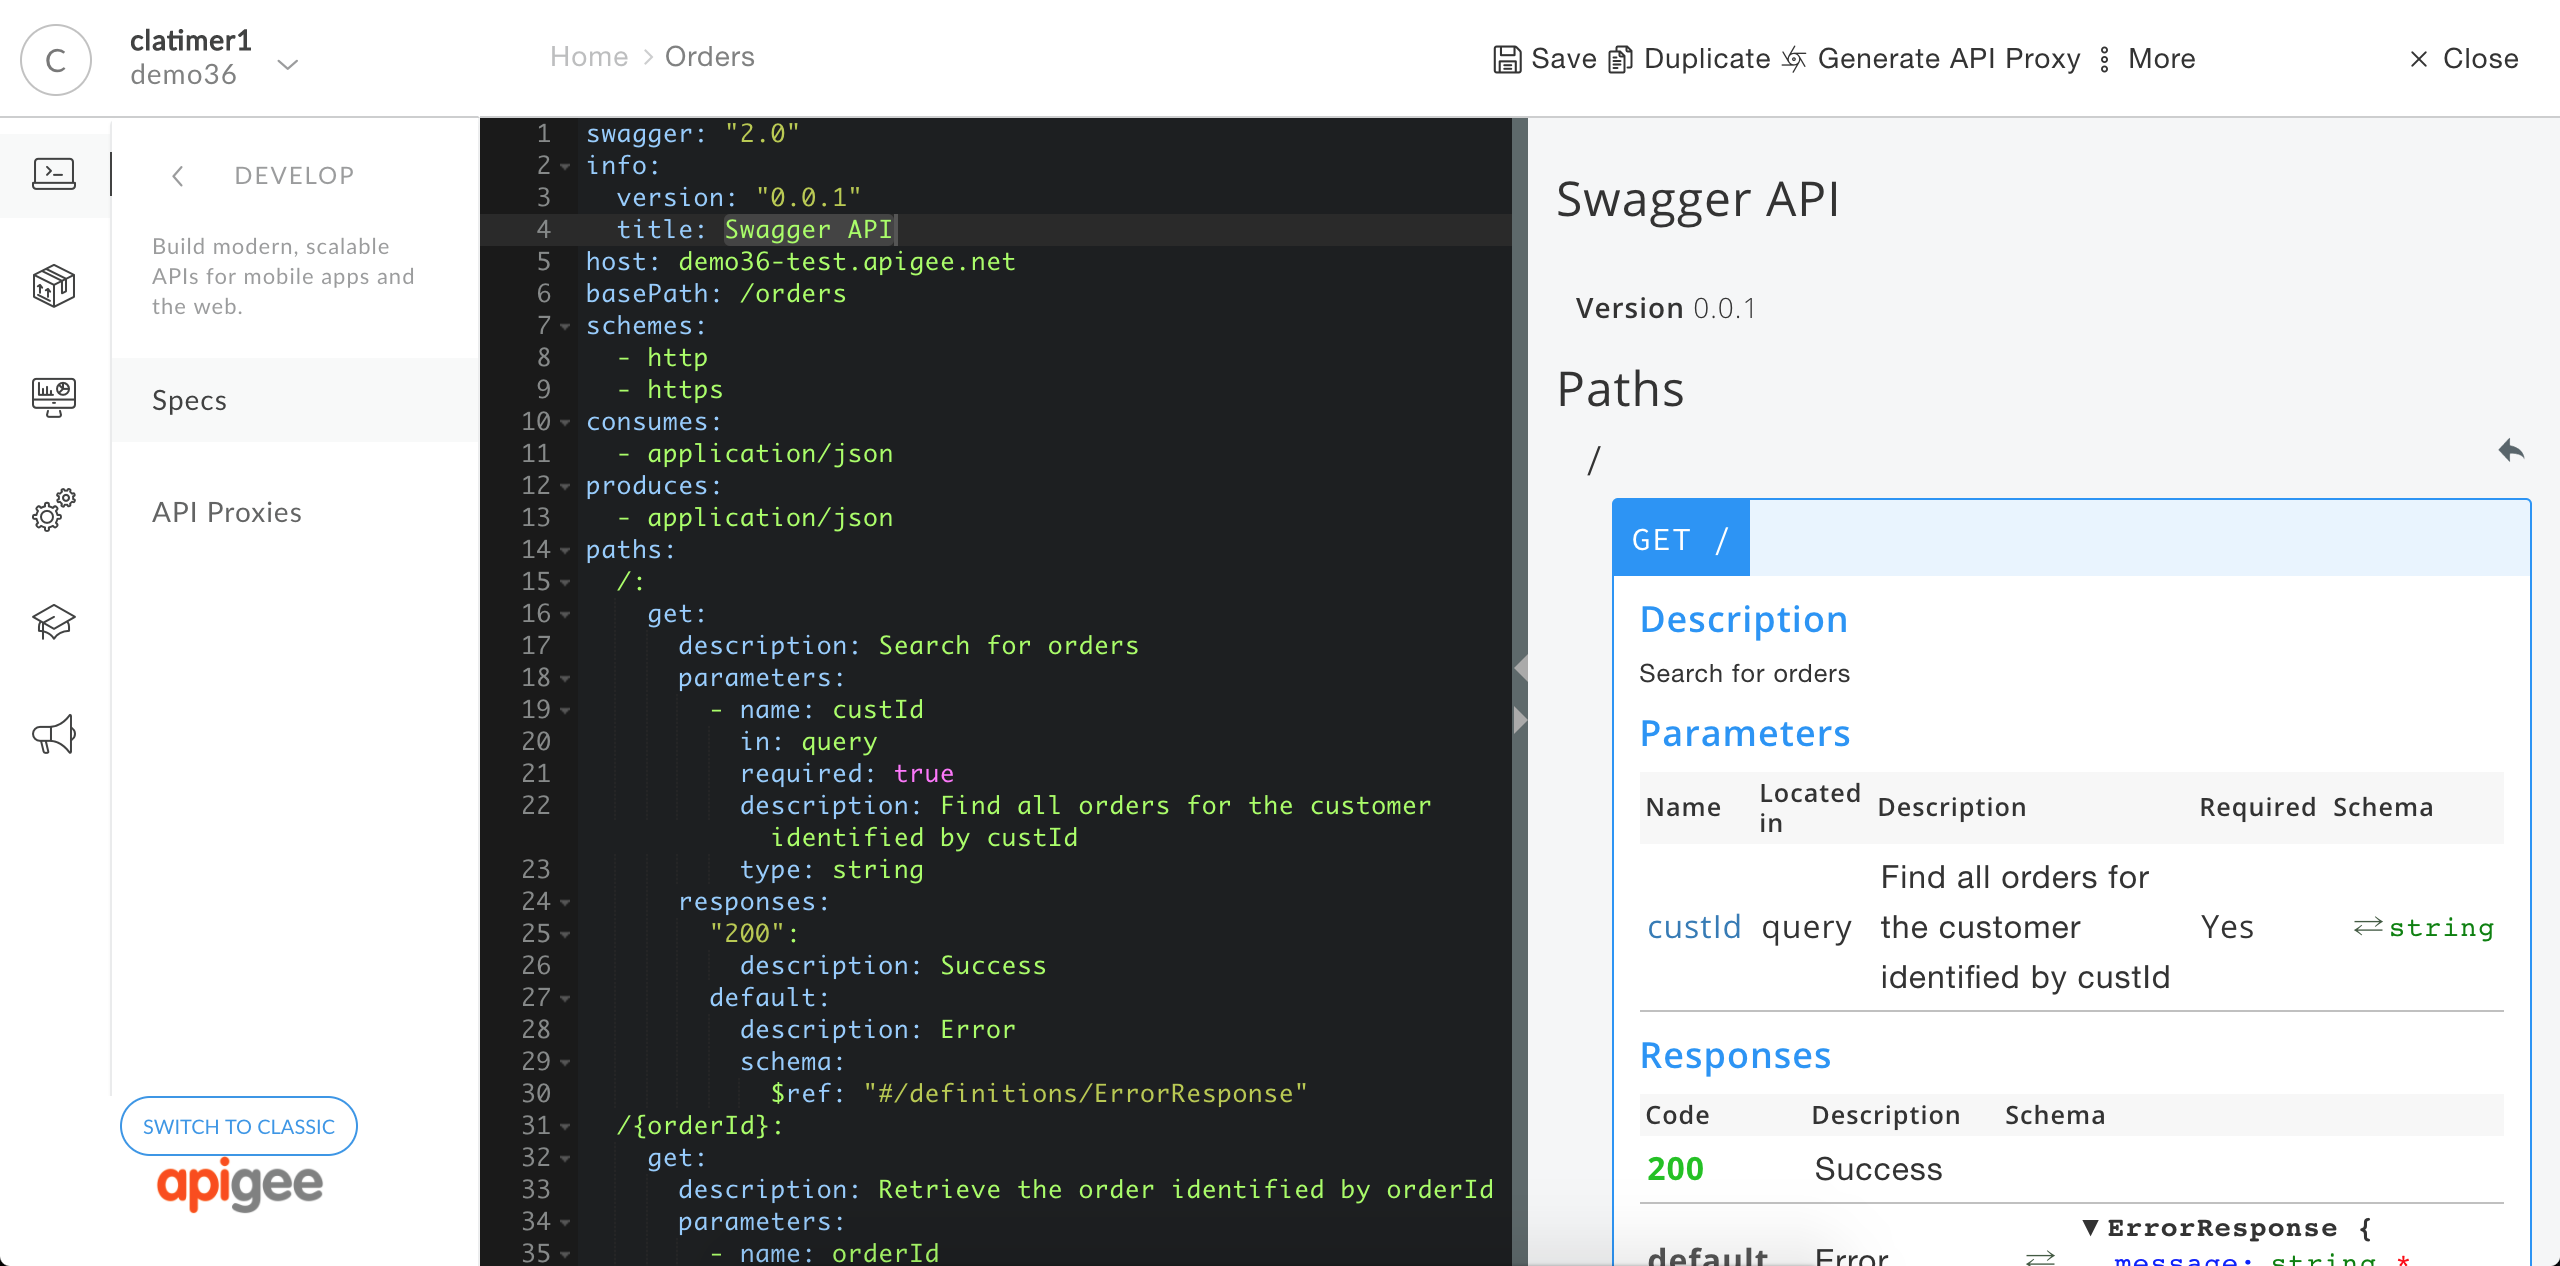
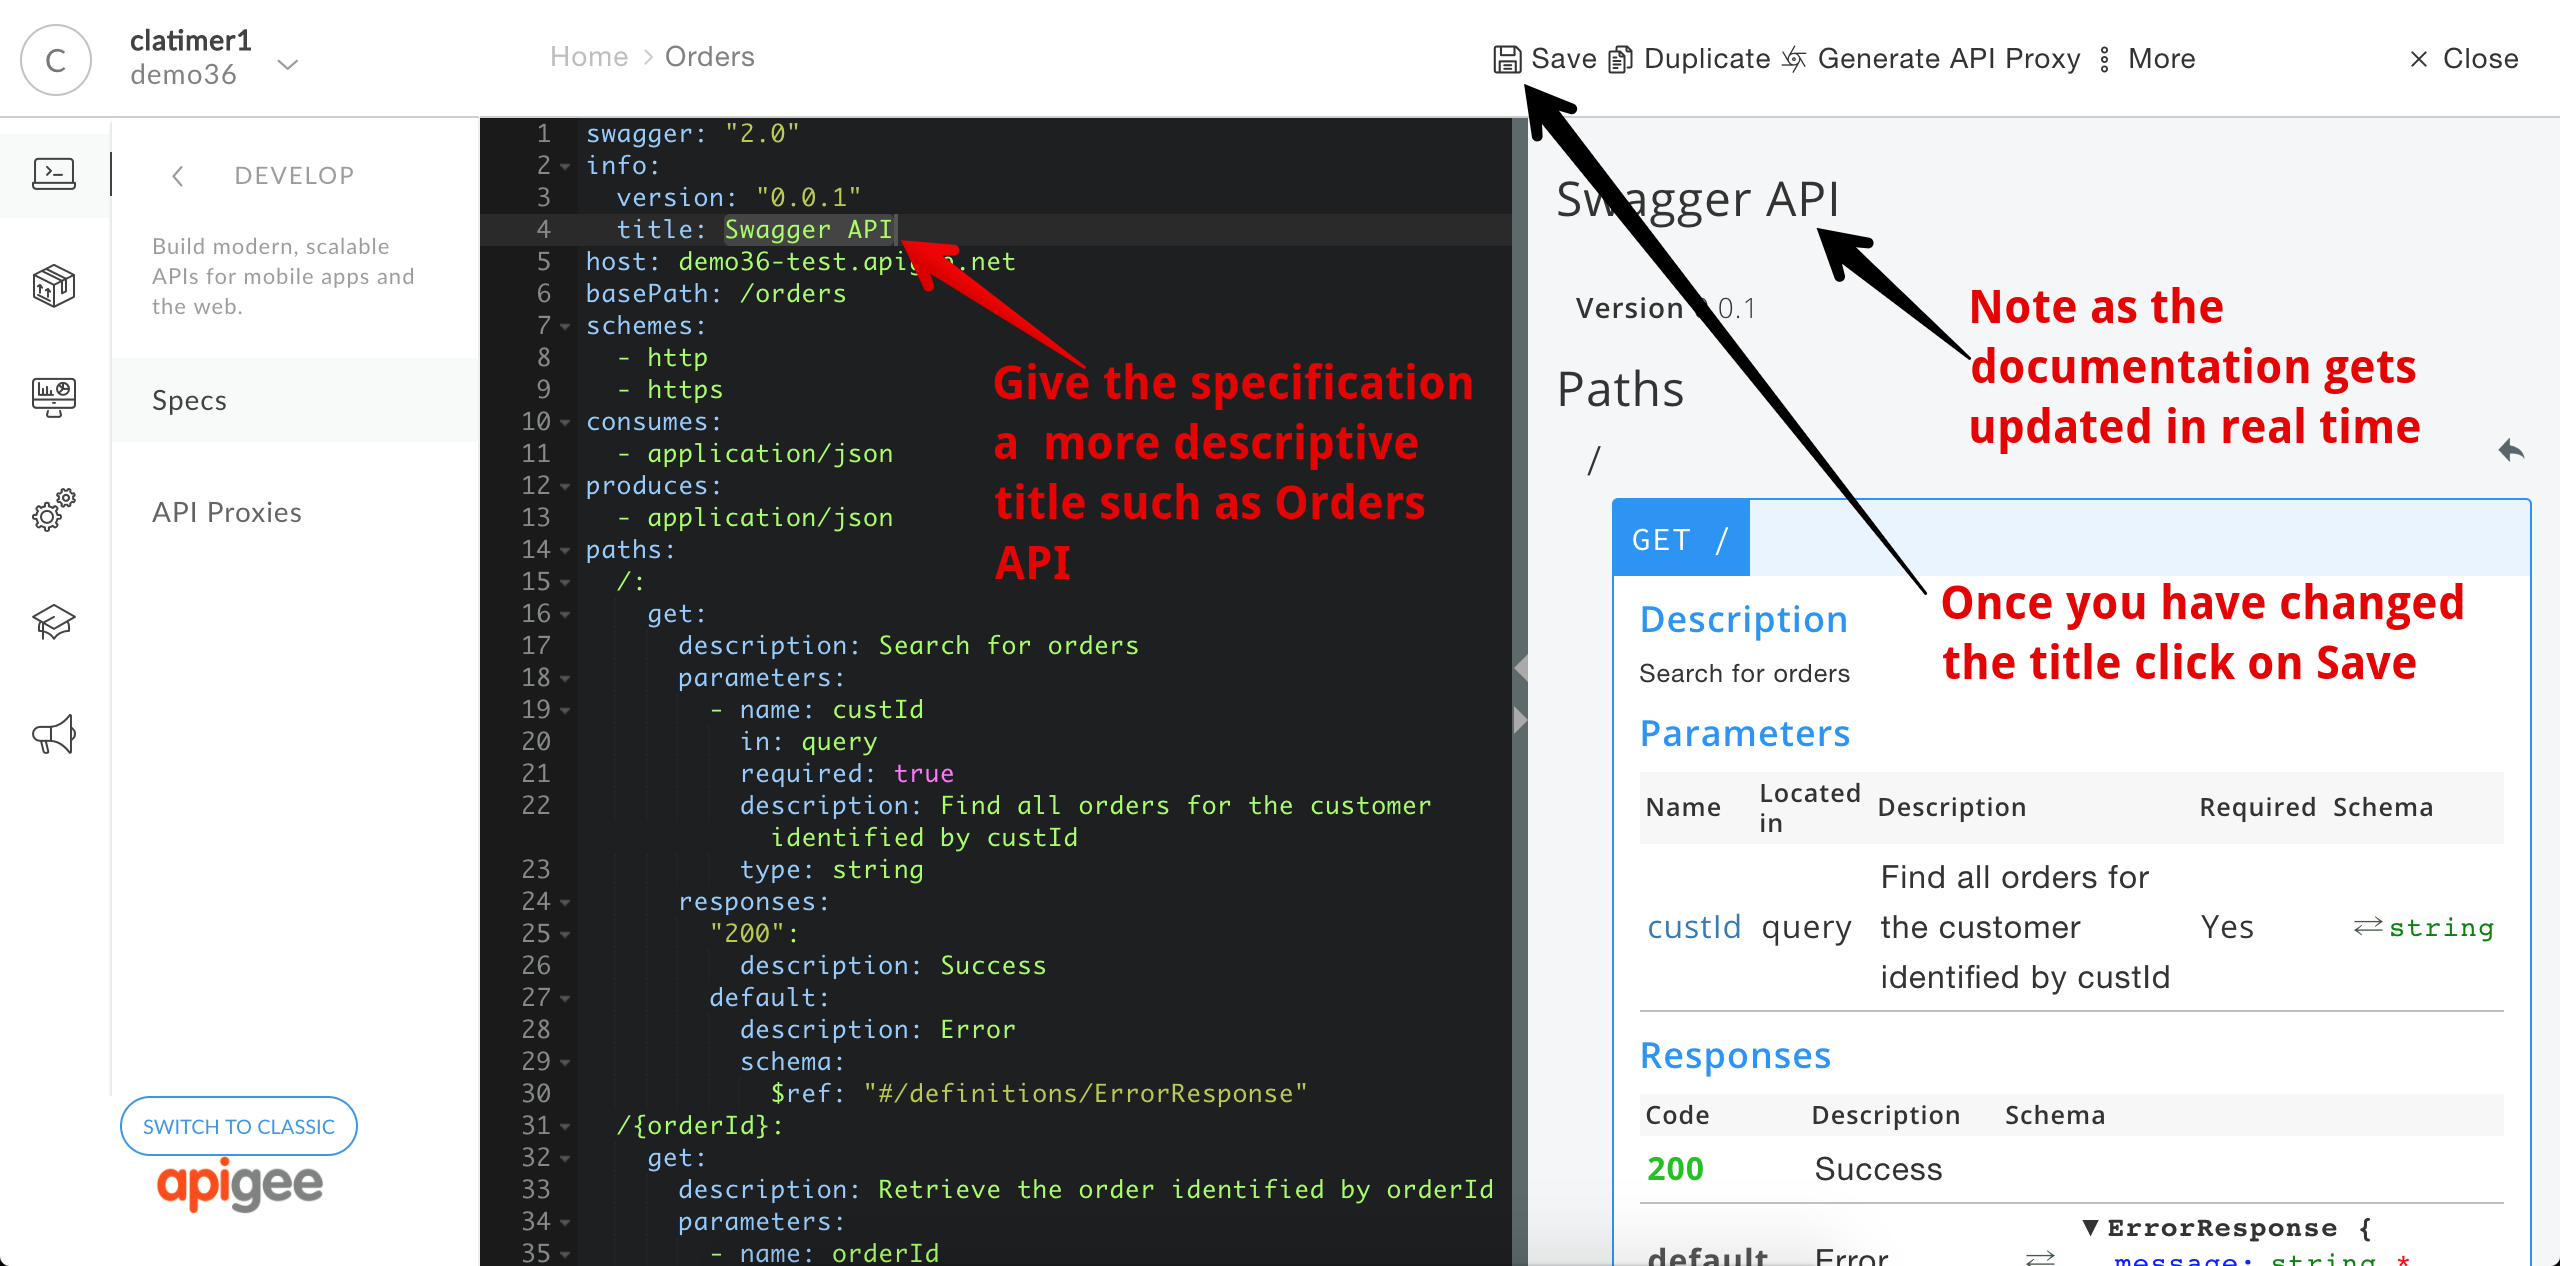
Lab 1 draft

diff --git a/lab1.md b/lab1.md
@@ -11,3 +11,51 @@ Expand the *+Spec* button and select the option *Import URL...*
 This will reveal a dialog to import a new spec from a URL. In this dialog, copy and paste this URL into the URL field:  <a href="http://playground.apistudio.io/7c8a02f4-6ed8-44a0-8c46-80e00cdd85cf/spec" target="_blank">http://playground.apistudio.io/7c8a02f4-6ed8-44a0-8c46-80e00cdd85cf/spec</a>
 
 ![Image](images/import-spec-dialog.png) 
+
+Click on *Import* to import the specification into your API Specification collection. Once you do this, you will see the API specification in the list of specs. 
+
+![Image](images/spec-list.png) 
+
+Click on your spec to launch the spec editor tool. The spec editor allows you to edit the yaml that defines the spec and see a preview of your API documentation in one view. On the right hand pane you can familiarize yourself with the API we'll be working with. The API has two resources:
+
+`GET /orders` is used to search for orders. You can specify a custId query parameter to find orders for a given customer.
+
+`GET /orders/{orderId}` is used to retrieve a specific order by providing an orderId.
+
+
+In the editor pane, update the specification to provide a more descriptive title:
+
+![Image](images/order-spec-change-title.png) 
+
+Click on the *Save* link to save the changes to your specification. Once the Spec has successfully saved, you can then create an API Proxy by clicking on the *Generate API Proxy* option:
+
+![Image](images/order-spec-editor.png)
+
+This will launch the API Creation wizard that walks you through the process of creating an API Proxy. On the first form, give your API Proxy a name of `orders-rest-api` and specify a base path value of `/orders` then click next:
+
+![Image](images/order-proxy-wizard-1.png)
+
+The next screen will allow you to select a subset of the resources from the specification that you want to expose through your API proxy. Leave the default values and click next:
+
+![Image](images/order-proxy-wizard-2.png)
+
+The next screen allows you to setup common security approaches and add CORS headers. Select the pass-through option and leave CORS unchecked:
+
+![Image](images/order-proxy-wizard-3.png)
+
+The next screen allows you to map the API to certain virtual hosts. Your organization will have fewer virtual hosts than what are shown in the image. Just leave the default values and click next:
+
+![Image](images/order-proxy-wizard-4.png)
+
+The final screen gives you an option to review your API Proxy configuration and deploy it to one or more environments. Leave the default values and click on *Build and Deploy*:
+
+![Image](images/order-proxy-wizard-5.png)
+
+Once the API Proxy has been built and deployed, you will see a confirmation and a link to open the API Proxy for further development. Click on the *orders-rest-api* link:
+
+![Image](images/order-proxy-wizard-6.png)
+
+This will take you to the Proxy Overview page for your API Proxy:
+
+![Image](images/order-proxy-overview.png)
+
